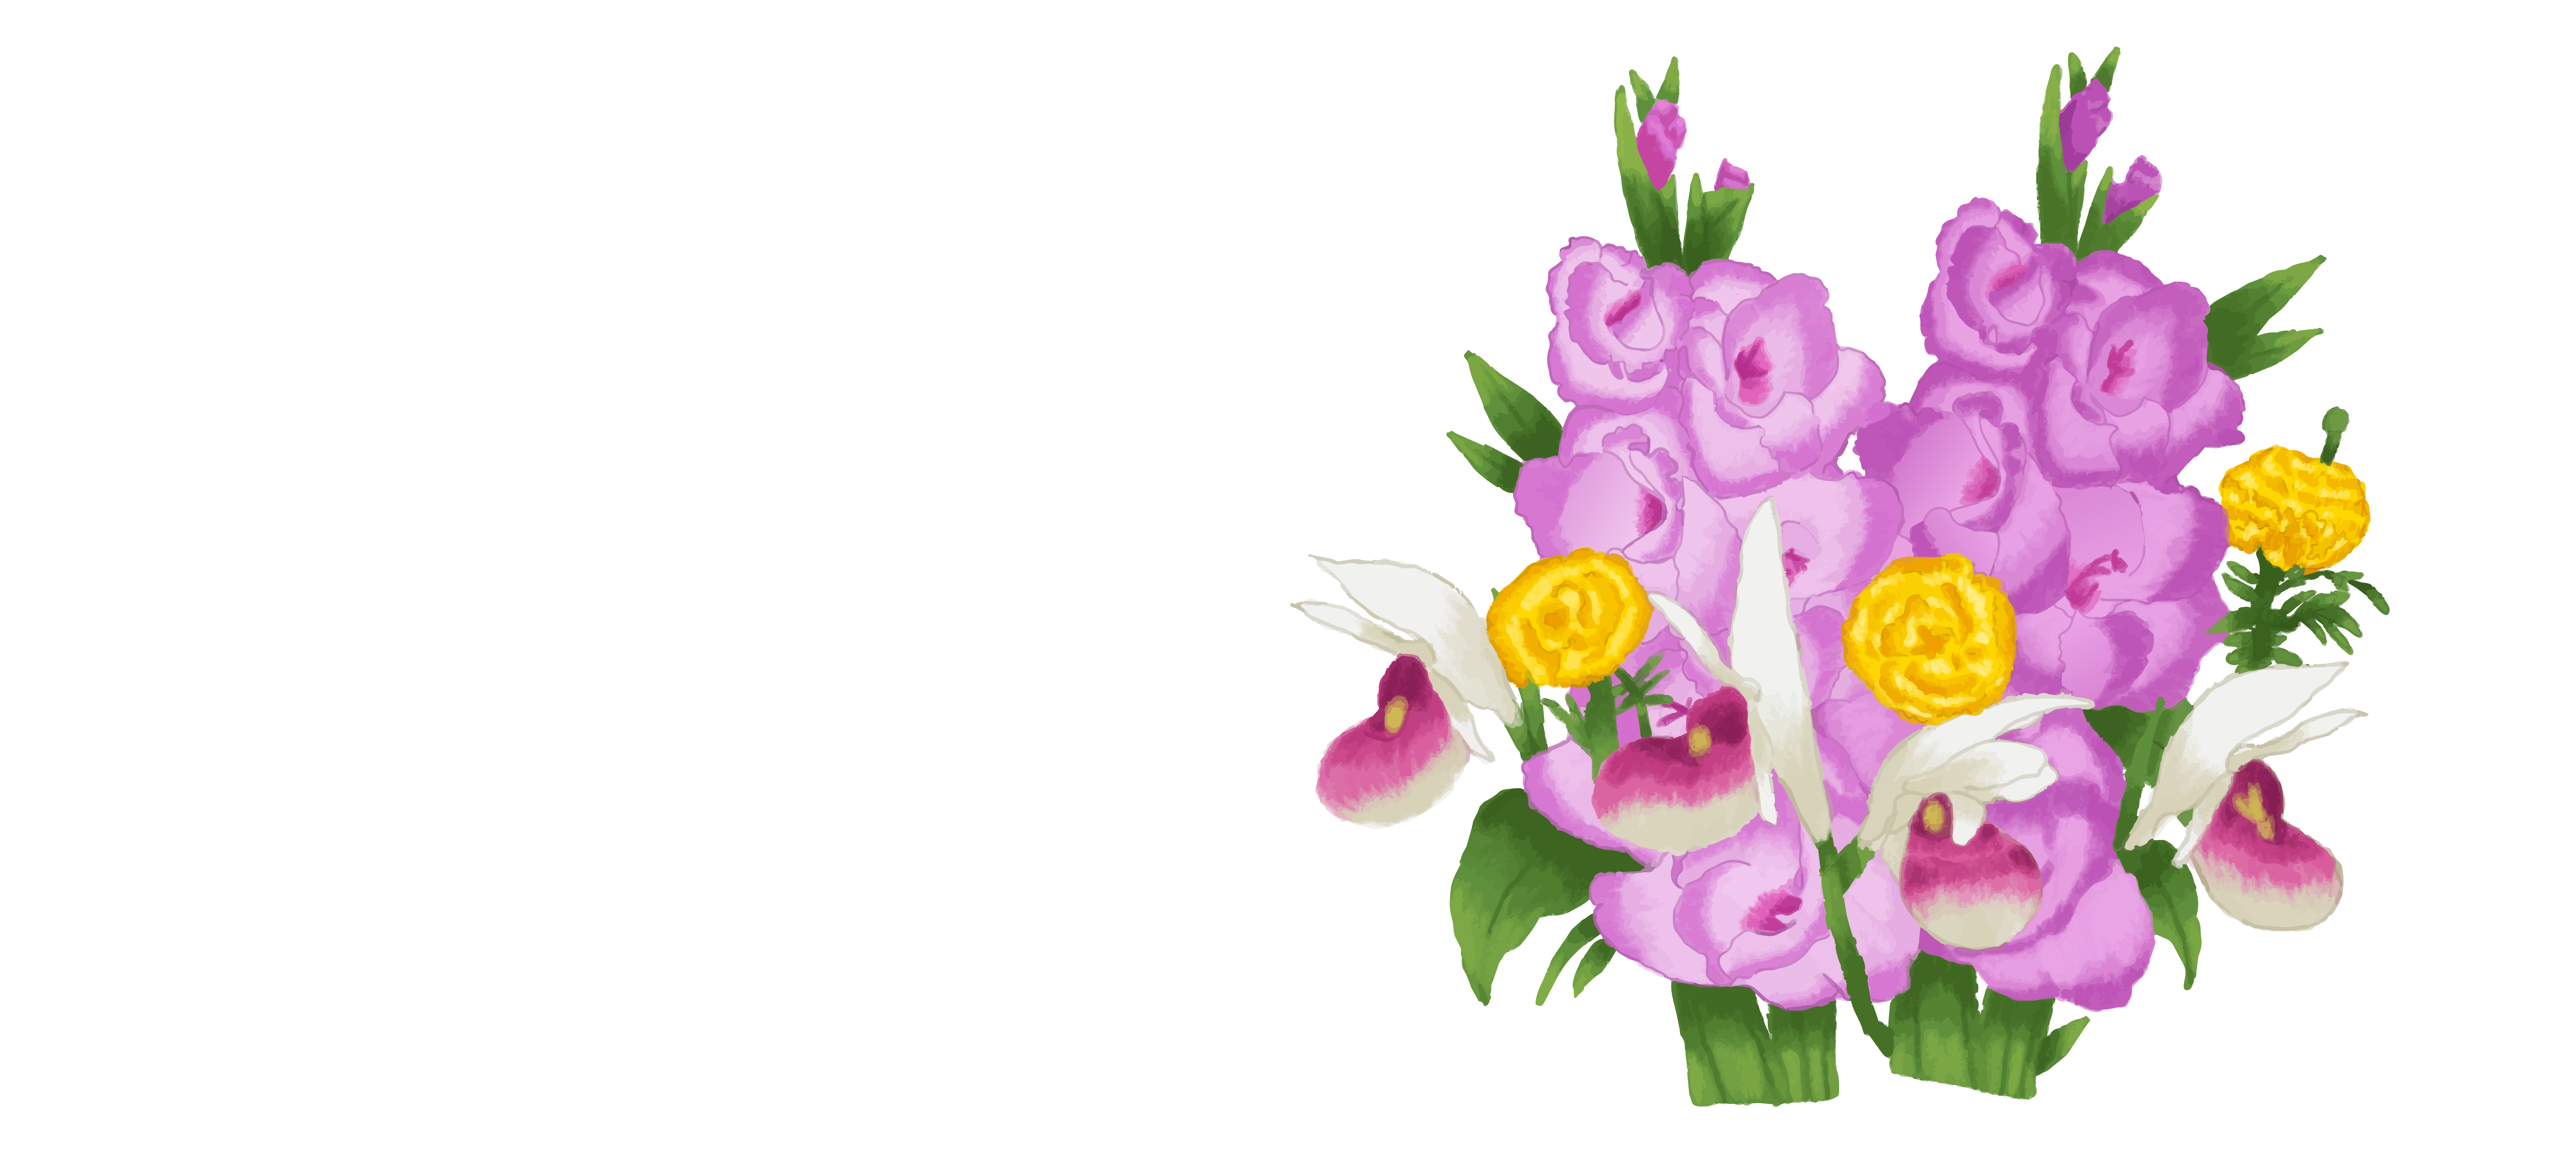
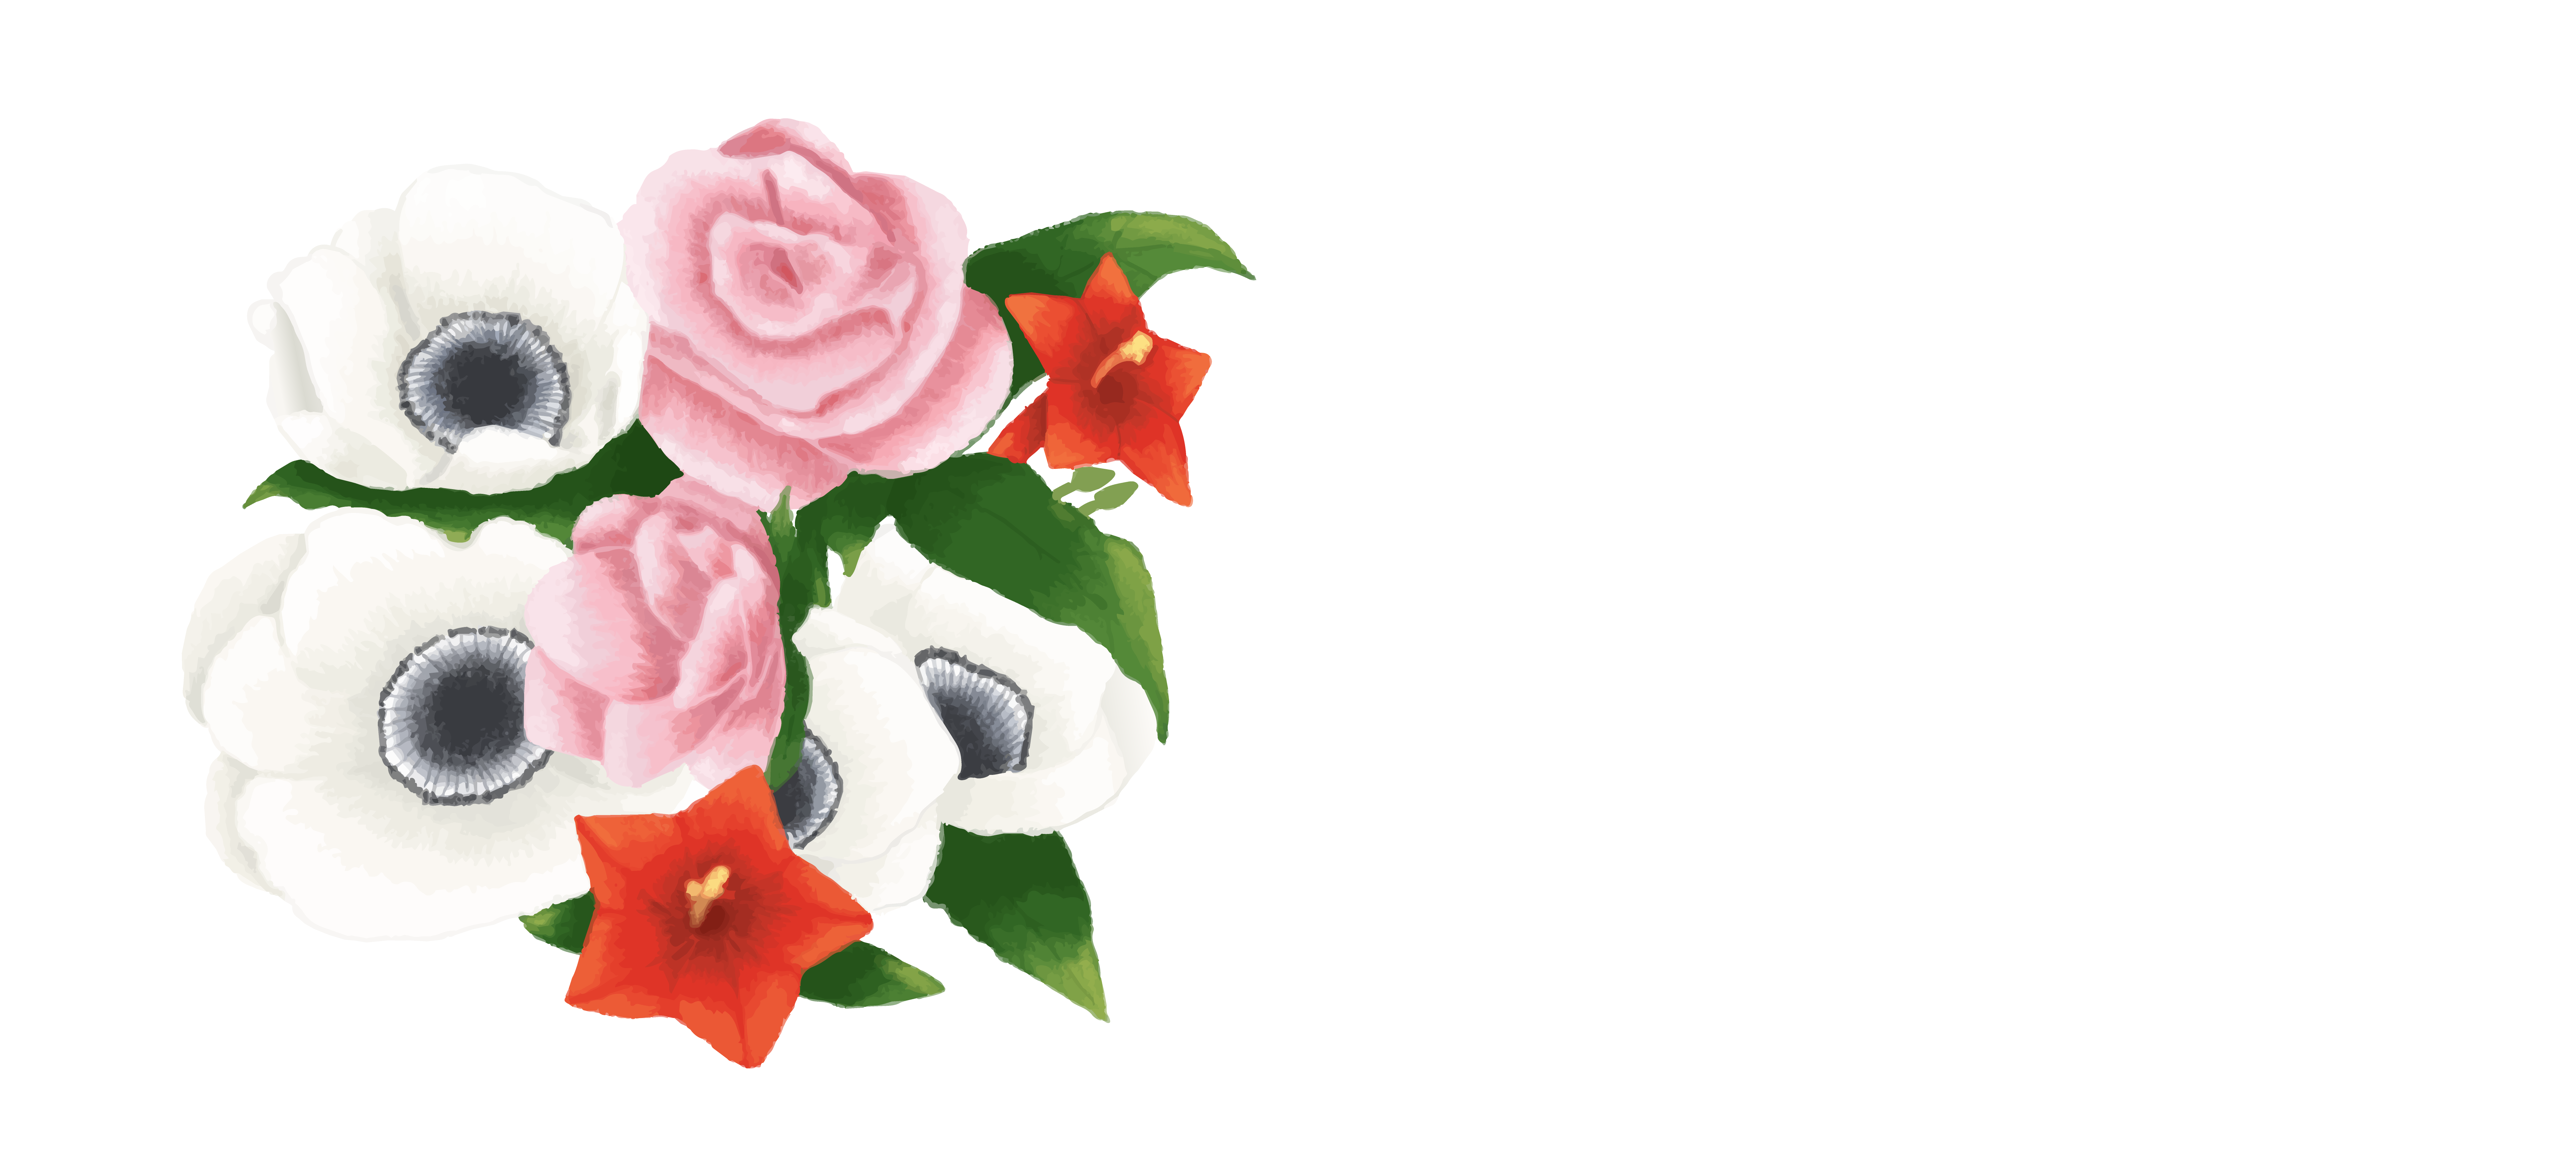
fix-img-pome

diff --git a/app/pages/poem-parent.vue b/app/pages/poem-parent.vue
@@ -26,17 +26,43 @@ function closePoem() {
 <template>
   <!-- CONTENT -->
   <section class="w-full pt-[5vw] pb-0">
-    <div class="text-center mb-[10vw]">
-      <h2 class="text-[8vw] md:text-[96px] text-[#F6EBDD] font-serif">
-        Poetry – Parent
-      </h2>
-      <p
-        class="text-[#F6EBDD] text-[3.5vw] font-light md:text-[24px] mt-[1vw] leading-relaxed"
-      >
-        ขอต้อนรับสู่พื้นที่แห่งความสัมพันธ์ ในหมวดหมู่ <span class="font-medium">ครอบครัว</span> <br />
-        ที่ได้ค้นหาไปจนถึงการ กลั่นกรองบทกวี และภาษาดอกไม้ <br />
-        ที่มีความหมายเกี่ยวข้อง
-      </p>
+
+    <!-- Title card with curtain decorations -->
+    <div class="relative mb-[10vw] mx-[5vw] bg-white rounded-[clamp(16px,2.5vw,36px)] overflow-hidden">
+      <!-- ม่านซ้าย (กลับด้าน) -->
+      <img
+        src="/poetry/bandner-parent.png"
+        class="absolute left-0 top-0 h-full w-auto pointer-events-none select-none scale-x-[-1]"
+      />
+      <!-- ม่านขวา -->
+      <img
+        src="/poetry/bandner-parent.png"
+        class="absolute right-0 top-0 h-full w-auto pointer-events-none select-none"
+      />
+      <!-- ข้อความ -->
+      <div class="relative z-10 text-center py-[clamp(24px,4vw,56px)] px-[clamp(80px,16vw,260px)]">
+        <h2 class="text-[8vw] md:text-[96px] text-[#2c1a0e] font-serif">
+          Poetry - Family
+        </h2>
+        <p
+          class="text-[#2c1a0e] text-[3.5vw] font-light md:text-[24px] mt-[1vw] leading-relaxed"
+        >
+          ขอต้อนรับสู่พื้นที่แห่งความสัมพันธ์ ในหมวดหมู่ <span class="font-medium">ครอบครัว</span> <br />
+          ที่ได้ค้นหาไปจนถึงการ กลั่นกรองบทกวี และภาษาดอกไม้ <br />
+          ที่มีความหมายเกี่ยวข้อง
+        </p>
+      </div>
+    </div>
+
+    <!-- ลายเพชรคั่น -->
+    <div class="w-full overflow-hidden flex items-center justify-center my-[2vw]" style="gap: clamp(6px, 1vw, 16px)">
+      <img
+        v-for="i in 50"
+        :key="i"
+        src="/poetry/thai.png"
+        class="flex-none pointer-events-none select-none"
+        style="height: clamp(18px, 2.8vw, 42px); width: auto;"
+      />
     </div>
 
     <div class="max-w-275 mx-auto">
@@ -44,7 +70,7 @@ function closePoem() {
       <!-- บทที่ 1 — รูปซ้าย ข้อความขวา -->
       <div class="relative mb-[6vw]">
         <img src="/poetry/family 1.png" loading="lazy" alt="ภาพประกอบบทกวีเพลงยาวถวายโอวาท ของสุนทรภู่ สื่อถึงความกตัญญูต่อบิดามารดา และคุณค่าของครอบครัวในวรรณคดีไทย" class="w-full h-auto pointer-events-none" />
-        <div class="absolute inset-0 flex items-center pl-[42%] pr-[10%] -translate-y-[5%]">
+        <div class="absolute inset-0 flex items-center pl-[42%] pr-[6%] -translate-y-[5%]">
           <div class="flex flex-col items-end text-right gap-[0.6em] w-full">
             <h3 class="font-serif font-medium text-[#2c1a0e]" style="font-size: clamp(14px, 2.8vw, 40px)">เพลงยาวถวายโอวาท</h3>
             <p class="text-[#2c1a0e] font-light" style="font-size: clamp(10px, 1.5vw, 24px)">ผู้แต่ง: สุนทรภู่</p>
@@ -81,6 +107,38 @@ function closePoem() {
             <h3 class="font-serif font-medium text-[#2c1a0e]" style="font-size: clamp(14px, 2.8vw, 40px)">ขุนช้างขุนแผน</h3>
             <p class="text-[#2c1a0e] font-light" style="font-size: clamp(10px, 1.5vw, 24px)">ผู้แต่ง: สุนทรภู่</p>
             <button @click="poetryList[2] && openPoem(poetryList[2])"
+              class="bg-[#E76A87] text-white font-readmore cursor-pointer border border-black rounded-full shadow-md hover:scale-105 transition-transform"
+              style="font-size: clamp(10px, 1.1vw, 16px); padding: clamp(4px,0.5vw,8px) clamp(12px,1.8vw,26px)">
+              Read more
+            </button>
+          </div>
+        </div>
+      </div>
+
+      <!-- บทที่ 4 — รูปขวา ข้อความซ้าย -->
+      <div class="relative mb-[6vw]">
+        <img src="/poetry/fam 4.png" loading="lazy" alt="ภาพประกอบบทกวีสุภาษิตสอนหญิง ของสุนทรภู่ สื่อถึงคำสอนและมารยาทของสตรีในครอบครัวไทย" class="w-full h-auto pointer-events-none" />
+        <div class="absolute inset-0 flex items-center pr-[42%] pl-[10%]">
+          <div class="flex flex-col items-start text-left gap-[0.6em] w-full">
+            <h3 class="font-serif font-medium text-[#2c1a0e]" style="font-size: clamp(14px, 2.8vw, 40px)">สุภาษิตสอนหญิง</h3>
+            <p class="text-[#2c1a0e] font-light" style="font-size: clamp(10px, 1.5vw, 24px)">ผู้แต่ง: สุนทรภู่</p>
+            <button @click="poetryList[1] && openPoem(poetryList[1])"
+              class="bg-[#E76A87] text-white font-readmore cursor-pointer border border-black rounded-full shadow-md hover:scale-105 transition-transform"
+              style="font-size: clamp(10px, 1.1vw, 16px); padding: clamp(4px,0.5vw,8px) clamp(12px,1.8vw,26px)">
+              Read more
+            </button>
+          </div>
+        </div>
+      </div>
+
+       <!-- บทที่ 5 — รูปซ้าย ข้อความขวา -->
+      <div class="relative mb-[6vw]">
+        <img src="/poetry/fam 5.png" loading="lazy" alt="ภาพประกอบบทกวีพระอภัยมณี ตอนฤาษีช่วยสุดสาคร ของสุนทรภู่ สื่อถึงความรักและความผูกพันระหว่างบิดาและบุตร" class="w-full h-auto pointer-events-none" />
+        <div class="absolute inset-0 flex items-center pl-[42%] pr-[20%] -translate-y-[5%]">
+          <div class="flex flex-col items-end text-right gap-[0.6em] w-full">
+            <h3 class="font-serif font-medium text-[#2c1a0e]" style="font-size: clamp(14px, 2.8vw, 40px)">พระอภัยมณี <br>ตอนฤาษีช่วยสุดสาคร</h3>
+            <p class="text-[#2c1a0e] font-light" style="font-size: clamp(10px, 1.5vw, 24px)">ผู้แต่ง: สุนทรภู่</p>
+            <button @click="poetryList[0] && openPoem(poetryList[0])"
               class="bg-[#E76A87] text-white font-readmore cursor-pointer border border-black rounded-full shadow-md hover:scale-105 transition-transform"
               style="font-size: clamp(10px, 1.1vw, 16px); padding: clamp(4px,0.5vw,8px) clamp(12px,1.8vw,26px)">
               Read more

diff --git a/app/pages/poem-love.vue b/app/pages/poem-love.vue
@@ -42,7 +42,7 @@ function closePoem() {
 
         <!-- บทที่ 1 — รูปซ้าย ข้อความขวา -->
         <div class="relative mb-[6vw]">
-          <img src="/love/romance 1.png" loading="lazy" alt="ภาพประกอบบทกวีพระอภัยมณี ตอนพระอภัยมณีเกี้ยวนางละเวง ของสุนทรภู่ สื่อถึงความรักอมตะที่ยั่งยืนแม้โลกจะสลาย" class="w-full h-auto pointer-events-none" />
+          <img src="/love/love 1.png" loading="lazy" alt="ภาพประกอบบทกวีพระอภัยมณี ตอนพระอภัยมณีเกี้ยวนางละเวง ของสุนทรภู่ สื่อถึงความรักอมตะที่ยั่งยืนแม้โลกจะสลาย" class="w-full h-auto pointer-events-none" />
           <div class="absolute inset-0 flex items-center pl-[42%] pr-[10%]">
             <div class="flex flex-col items-end text-right gap-[0.6em] w-full">
               <h3 class="font-serif font-medium text-[#2c1a0e]" style="font-size: clamp(14px, 2.8vw, 40px)">พระอภัยมณี</h3>
@@ -56,6 +56,70 @@ function closePoem() {
             </div>
           </div>
         </div>
+
+         <!-- บทที่ 2 — รูปขวา ข้อความซ้าย -->
+        <div class="relative mb-[6vw]">
+          <img src="/love/love 2.png" loading="lazy" alt="ภาพประกอบบทกวีสวัสดิรักษา ของสุนทรภู่ สื่อถึงความเจ็บปวดและความโศกเศร้าจากบทกวีวรรณคดีไทย" class="w-full h-auto pointer-events-none" />
+          <div class="absolute inset-0 flex items-center pr-[42%] pl-[13%]">
+            <div class="flex flex-col items-start text-left gap-[0.6em] w-full">
+              <h3 class="font-serif font-medium text-[#2c1a0e]" style="font-size: clamp(14px, 2.8vw, 40px)">พระอภัยมณี</h3>
+              <p class="text-[#2c1a0e] font-light" style="font-size: clamp(10px, 1.5vw, 24px)">ผู้แต่ง: สุนทรภู่</p>
+              <button @click="poetryList[5] && openPoem(poetryList[5])"
+                class="bg-[#E76A87] text-white font-readmore cursor-pointer border border-black rounded-full shadow-md hover:scale-105 transition-transform"
+                style="font-size: clamp(10px, 1.1vw, 16px); padding: clamp(4px,0.5vw,8px) clamp(12px,1.8vw,26px)">
+                Read more
+              </button>
+            </div>
+          </div>
+        </div>
+
+        <!-- บทที่ 3 — รูปซ้าย ข้อความขวา -->
+      <div class="relative mb-[6vw]">
+        <img src="/love/love 3.png" loading="lazy" alt="ภาพประกอบบทกวีขุนช้างขุนแผน ตอนที่สื่อถึงความรักและความผูกพันในครอบครัว จากวรรณคดีไทยของสุนทรภู่" class="w-full h-auto pointer-events-none" />
+        <div class="absolute inset-0 flex items-center pl-[42%] pr-[14%]">
+          <div class="flex flex-col items-end text-right gap-[0.6em] w-full">
+            <h3 class="font-serif font-medium text-[#2c1a0e]" style="font-size: clamp(14px, 2.8vw, 40px)">นิราศอิเหนา</h3>
+            <p class="text-[#2c1a0e] font-light" style="font-size: clamp(10px, 1.5vw, 24px)">ผู้แต่ง: สุนทรภู่</p>
+            <button @click="poetryList[2] && openPoem(poetryList[2])"
+              class="bg-[#E76A87] text-white font-readmore cursor-pointer border border-black rounded-full shadow-md hover:scale-105 transition-transform"
+              style="font-size: clamp(10px, 1.1vw, 16px); padding: clamp(4px,0.5vw,8px) clamp(12px,1.8vw,26px)">
+              Read more
+            </button>
+          </div>
+        </div>
+      </div>
+
+      <!-- บทที่ 4 — รูปขวา ข้อความซ้าย -->
+      <div class="relative mb-[6vw]">
+        <img src="/love/love 4.png" loading="lazy" alt="ภาพประกอบบทกวีสุภาษิตสอนหญิง ของสุนทรภู่ สื่อถึงคำสอนและมารยาทของสตรีในครอบครัวไทย" class="w-full h-auto pointer-events-none" />
+        <div class="absolute inset-0 flex items-center pr-[50%] pl-[18%]">
+          <div class="flex flex-col items-start text-left gap-[0.6em] w-full">
+            <h3 class="font-serif font-medium text-[#2c1a0e]" style="font-size: clamp(14px, 2.8vw, 40px)">พระอภัยมณี</h3>
+            <p class="text-[#2c1a0e] font-light" style="font-size: clamp(10px, 1.5vw, 24px)">ผู้แต่ง: สุนทรภู่</p>
+            <button @click="poetryList[1] && openPoem(poetryList[1])"
+              class="bg-[#E76A87] text-white font-readmore cursor-pointer border border-black rounded-full shadow-md hover:scale-105 transition-transform"
+              style="font-size: clamp(10px, 1.1vw, 16px); padding: clamp(4px,0.5vw,8px) clamp(12px,1.8vw,26px)">
+              Read more
+            </button>
+          </div>
+        </div>
+      </div>
+
+       <!-- บทที่ 5 — รูปซ้าย ข้อความขวา -->
+      <div class="relative mb-[6vw]">
+        <img src="/love/love 5.png" loading="lazy" alt="ภาพประกอบบทกวีพระอภัยมณี ตอนฤาษีช่วยสุดสาคร ของสุนทรภู่ สื่อถึงความรักและความผูกพันระหว่างบิดาและบุตร" class="w-full h-auto pointer-events-none" />
+        <div class="absolute inset-0 flex items-center pl-[42%] pr-[20%] -translate-y-[5%]">
+          <div class="flex flex-col items-end text-right gap-[0.6em] w-full">
+            <h3 class="font-serif font-medium text-[#2c1a0e]" style="font-size: clamp(14px, 2.8vw, 40px)">นิราศอิเหนา</h3>
+            <p class="text-[#2c1a0e] font-light" style="font-size: clamp(10px, 1.5vw, 24px)">ผู้แต่ง: สุนทรภู่</p>
+            <button @click="poetryList[0] && openPoem(poetryList[0])"
+              class="bg-[#E76A87] text-white font-readmore cursor-pointer border border-black rounded-full shadow-md hover:scale-105 transition-transform"
+              style="font-size: clamp(10px, 1.1vw, 16px); padding: clamp(4px,0.5vw,8px) clamp(12px,1.8vw,26px)">
+              Read more
+            </button>
+          </div>
+        </div>
+      </div>
 
       </div>
     </section>

diff --git a/app/pages/poem-warning.vue b/app/pages/poem-warning.vue
@@ -58,6 +58,70 @@ function closePoem() {
           </div>
         </div>
 
+        <!-- บทที่ 2 — รูปขวา ข้อความซ้าย -->
+      <div class="relative mb-[6vw]">
+        <img src="/warning/warn 2.png" loading="lazy" alt="ภาพประกอบบทกวีสวัสดิรักษา ของสุนทรภู่ สื่อถึงการอบรมสั่งสอนของผู้ใหญ่ และมารยาทอันดีงามในครอบครัว" class="w-full h-auto pointer-events-none" />
+        <div class="absolute inset-0 flex items-center pr-[42%] pl-[10%]">
+          <div class="flex flex-col items-start text-left gap-[0.6em] w-full">
+            <h3 class="font-serif font-medium text-[#2c1a0e]" style="font-size: clamp(14px, 2.8vw, 40px)">เพลงยาวถวายโอวาทา</h3>
+            <p class="text-[#2c1a0e] font-light" style="font-size: clamp(10px, 1.5vw, 24px)">ผู้แต่ง: สุนทรภู่</p>
+            <button @click="poetryList[1] && openPoem(poetryList[1])"
+              class="bg-[#E76A87] text-white font-readmore cursor-pointer border border-black rounded-full shadow-md hover:scale-105 transition-transform"
+              style="font-size: clamp(10px, 1.1vw, 16px); padding: clamp(4px,0.5vw,8px) clamp(12px,1.8vw,26px)">
+              Read more
+            </button>
+          </div>
+        </div>
+      </div>
+
+      <!-- บทที่ 3 — รูปซ้าย ข้อความขวา -->
+      <div class="relative mb-[6vw]">
+        <img src="/warning/warn 3.png" loading="lazy" alt="ภาพประกอบบทกวีขุนช้างขุนแผน ตอนที่สื่อถึงความรักและความผูกพันในครอบครัว จากวรรณคดีไทยของสุนทรภู่" class="w-full h-auto pointer-events-none" />
+        <div class="absolute inset-0 flex items-center pl-[42%] pr-[14%]">
+          <div class="flex flex-col items-end text-right gap-[0.6em] w-full">
+            <h3 class="font-serif font-medium text-[#2c1a0e]" style="font-size: clamp(14px, 2.8vw, 40px)">เพลงยาวถวายโอวาท</h3>
+            <p class="text-[#2c1a0e] font-light" style="font-size: clamp(10px, 1.5vw, 24px)">ผู้แต่ง: สุนทรภู่</p>
+            <button @click="poetryList[2] && openPoem(poetryList[2])"
+              class="bg-[#E76A87] text-white font-readmore cursor-pointer border border-black rounded-full shadow-md hover:scale-105 transition-transform"
+              style="font-size: clamp(10px, 1.1vw, 16px); padding: clamp(4px,0.5vw,8px) clamp(12px,1.8vw,26px)">
+              Read more
+            </button>
+          </div>
+        </div>
+      </div>
+
+      <!-- บทที่ 4 — รูปขวา ข้อความซ้าย -->
+      <div class="relative mb-[6vw]">
+        <img src="/warning/warn 4.png" loading="lazy" alt="ภาพประกอบบทกวีสุภาษิตสอนหญิง ของสุนทรภู่ สื่อถึงคำสอนและมารยาทของสตรีในครอบครัวไทย" class="w-full h-auto pointer-events-none" />
+        <div class="absolute inset-0 flex items-center pr-[42%] pl-[10%]">
+          <div class="flex flex-col items-start text-left gap-[0.6em] w-full">
+            <h3 class="font-serif font-medium text-[#2c1a0e]" style="font-size: clamp(14px, 2.8vw, 40px)">เพลงยาวถวายโอวาท</h3>
+            <p class="text-[#2c1a0e] font-light" style="font-size: clamp(10px, 1.5vw, 24px)">ผู้แต่ง: สุนทรภู่</p>
+            <button @click="poetryList[1] && openPoem(poetryList[1])"
+              class="bg-[#E76A87] text-white font-readmore cursor-pointer border border-black rounded-full shadow-md hover:scale-105 transition-transform"
+              style="font-size: clamp(10px, 1.1vw, 16px); padding: clamp(4px,0.5vw,8px) clamp(12px,1.8vw,26px)">
+              Read more
+            </button>
+          </div>
+        </div>
+      </div>
+
+       <!-- บทที่ 5 — รูปซ้าย ข้อความขวา -->
+      <div class="relative mb-[6vw]">
+        <img src="/warning/warn 5.png" loading="lazy" alt="ภาพประกอบบทกวีพระอภัยมณี ตอนฤาษีช่วยสุดสาคร ของสุนทรภู่ สื่อถึงความรักและความผูกพันระหว่างบิดาและบุตร" class="w-full h-auto pointer-events-none" />
+        <div class="absolute inset-0 flex items-center pl-[42%] pr-[20%] -translate-y-[5%]">
+          <div class="flex flex-col items-end text-right gap-[0.6em] w-full">
+            <h3 class="font-serif font-medium text-[#2c1a0e]" style="font-size: clamp(14px, 2.8vw, 40px)">เพลงยาวถวายโอวาท</h3>
+            <p class="text-[#2c1a0e] font-light" style="font-size: clamp(10px, 1.5vw, 24px)">ผู้แต่ง: สุนทรภู่</p>
+            <button @click="poetryList[0] && openPoem(poetryList[0])"
+              class="bg-[#E76A87] text-white font-readmore cursor-pointer border border-black rounded-full shadow-md hover:scale-105 transition-transform"
+              style="font-size: clamp(10px, 1.1vw, 16px); padding: clamp(4px,0.5vw,8px) clamp(12px,1.8vw,26px)">
+              Read more
+            </button>
+          </div>
+        </div>
+      </div>
+
       </div>
     </section>
 

diff --git a/app/pages/poem-sadness.vue b/app/pages/poem-sadness.vue
@@ -42,7 +42,7 @@ function closePoem() {
         <!-- บทที่ 1 — รูปซ้าย ข้อความขวา -->
         <div class="relative mb-[6vw]">
           <img src="/sadness/sad 1.png" loading="lazy" alt="ภาพประกอบบทกวีนิราศอิเหนา ของสุนทรภู่ สื่อถึงความโศกเศร้าและความรักที่ตัดไม่ขาด ความโหยหาคนรักที่พลัดพราก" class="w-full h-auto pointer-events-none" />
-          <div class="absolute inset-0 flex items-center pl-[42%] pr-[10%]">
+          <div class="absolute inset-0 flex items-center pl-[40%] pr-[15%]">
             <div class="flex flex-col items-end text-right gap-[0.6em] w-full">
               <h3 class="font-serif font-medium text-[#2c1a0e]" style="font-size: clamp(14px, 2.8vw, 40px)">นิราศอิเหนา</h3>
               <p class="text-[#2c1a0e] font-light" style="font-size: clamp(10px, 1.5vw, 24px)">ผู้แต่ง: สุนทรภู่</p>
@@ -57,7 +57,7 @@ function closePoem() {
 
         <!-- บทที่ 2 — รูปขวา ข้อความซ้าย -->
         <div class="relative mb-[6vw]">
-          <img src="/sadness/sad 2.png" loading="lazy" alt="ภาพประกอบบทกวีสวัสดิรักษา ของสุนทรภู่ สื่อถึงความเจ็บปวดและความโศกเศร้าจากบทกวีวรรณคดีไทย" class="w-full h-auto pointer-events-none" />
+          <img src="/sadness/sad 2.png" loading="lazy" alt="ภาพประกอบบทกวีสวัสดิรักษา ของสุนทรภู่ สื่อถึงความเจ็บปวดและความโศกเศร้าจากบทกวีวรรณคดีไทย" class="w-full h-auto pointer-events-none scale-x-[-1]" />
           <div class="absolute inset-0 flex items-center pr-[42%] pl-[13%]">
             <div class="flex flex-col items-start text-left gap-[0.6em] w-full">
               <h3 class="font-serif font-medium text-[#2c1a0e]" style="font-size: clamp(14px, 2.8vw, 40px)">สวัสดิรักษา</h3>
@@ -70,6 +70,54 @@ function closePoem() {
             </div>
           </div>
         </div>
+
+        <!-- บทที่ 3 — รูปซ้าย ข้อความขวา -->
+      <div class="relative mb-[6vw]">
+        <img src="/sadness/sad 3.png" loading="lazy" alt="ภาพประกอบบทกวีขุนช้างขุนแผน ตอนที่สื่อถึงความรักและความผูกพันในครอบครัว จากวรรณคดีไทยของสุนทรภู่" class="w-full h-auto pointer-events-none" />
+        <div class="absolute inset-0 flex items-center pl-[42%] pr-[14%]">
+          <div class="flex flex-col items-end text-right gap-[0.6em] w-full">
+            <h3 class="font-serif font-medium text-[#2c1a0e]" style="font-size: clamp(14px, 2.8vw, 40px)">เพลงยาวถวายโอวาท</h3>
+            <p class="text-[#2c1a0e] font-light" style="font-size: clamp(10px, 1.5vw, 24px)">ผู้แต่ง: สุนทรภู่</p>
+            <button @click="poetryList[2] && openPoem(poetryList[2])"
+              class="bg-[#E76A87] text-white font-readmore cursor-pointer border border-black rounded-full shadow-md hover:scale-105 transition-transform"
+              style="font-size: clamp(10px, 1.1vw, 16px); padding: clamp(4px,0.5vw,8px) clamp(12px,1.8vw,26px)">
+              Read more
+            </button>
+          </div>
+        </div>
+      </div>
+
+      <!-- บทที่ 4 — รูปขวา ข้อความซ้าย -->
+      <div class="relative mb-[6vw]">
+        <img src="/sadness/sad 4.png" loading="lazy" alt="ภาพประกอบบทกวีสุภาษิตสอนหญิง ของสุนทรภู่ สื่อถึงคำสอนและมารยาทของสตรีในครอบครัวไทย" class="w-full h-auto pointer-events-none" />
+        <div class="absolute inset-0 flex items-center pr-[50%] pl-[18%]">
+          <div class="flex flex-col items-start text-left gap-[0.6em] w-full">
+            <h3 class="font-serif font-medium text-[#2c1a0e]" style="font-size: clamp(14px, 2.8vw, 40px)">เพลงยาวถวายโอวาท</h3>
+            <p class="text-[#2c1a0e] font-light" style="font-size: clamp(10px, 1.5vw, 24px)">ผู้แต่ง: สุนทรภู่</p>
+            <button @click="poetryList[1] && openPoem(poetryList[1])"
+              class="bg-[#E76A87] text-white font-readmore cursor-pointer border border-black rounded-full shadow-md hover:scale-105 transition-transform"
+              style="font-size: clamp(10px, 1.1vw, 16px); padding: clamp(4px,0.5vw,8px) clamp(12px,1.8vw,26px)">
+              Read more
+            </button>
+          </div>
+        </div>
+      </div>
+
+       <!-- บทที่ 5 — รูปซ้าย ข้อความขวา -->
+      <div class="relative mb-[6vw]">
+        <img src="/sadness/sad 5.png" loading="lazy" alt="ภาพประกอบบทกวีพระอภัยมณี ตอนฤาษีช่วยสุดสาคร ของสุนทรภู่ สื่อถึงความรักและความผูกพันระหว่างบิดาและบุตร" class="w-full h-auto pointer-events-none" />
+        <div class="absolute inset-0 flex items-center pl-[42%] pr-[20%] -translate-y-[5%]">
+          <div class="flex flex-col items-end text-right gap-[0.6em] w-full">
+            <h3 class="font-serif font-medium text-[#2c1a0e]" style="font-size: clamp(14px, 2.8vw, 40px)">เพลงยาวถวายโอวาท</h3>
+            <p class="text-[#2c1a0e] font-light" style="font-size: clamp(10px, 1.5vw, 24px)">ผู้แต่ง: สุนทรภู่</p>
+            <button @click="poetryList[0] && openPoem(poetryList[0])"
+              class="bg-[#E76A87] text-white font-readmore cursor-pointer border border-black rounded-full shadow-md hover:scale-105 transition-transform"
+              style="font-size: clamp(10px, 1.1vw, 16px); padding: clamp(4px,0.5vw,8px) clamp(12px,1.8vw,26px)">
+              Read more
+            </button>
+          </div>
+        </div>
+      </div>
 
       </div>
     </section>

diff --git a/app/components/PoetryModal.vue b/app/components/PoetryModal.vue
@@ -18,11 +18,12 @@ const emit = defineEmits(["close"]);
         @click.self="emit('close')"
       >
         <div
-          class="modal-card relative w-full max-w-[626px] max-h-[805px] h-[95vh] bg-[#FDFBF7] shadow-2xl flex flex-col overflow-hidden"
+          class="modal-card relative w-full max-w-[626px] max-h-[805px] h-[95vh] shadow-2xl flex flex-col overflow-hidden"
+          style="background-image: url('/popup/Bg popup.png'); background-size: cover; background-position: center;"
         >
           <img
-            src="/poetry/leaves-bg.png"
-            class="absolute right-0 bottom-0 w-[70%] opacity-25 z-0 pointer-events-none"
+            src="/popup/Bg flower.png"
+            class="absolute right-0 bottom-0 w-[70%] opacity-60 z-0 pointer-events-none"
           />
 
           <button

diff --git a/app/components/poetry-hero.vue b/app/components/poetry-hero.vue
@@ -18,12 +18,14 @@ const heroMap: Record<
     label: "Parent",
   },
   "/poem-warning": {
-    flowerSrc: "/warning/yellow.png",
+    flowerSrc: "/warning/warning.png",
     label: "Warning",
+    flowerStyle: "top: 0; height: 100%; width: auto;",
   },
   "/poem-love": {
-    flowerSrc: "/warning/yellow.png",
+    flowerSrc: "/love/Love head.png",
     label: "Love",
+    flowerStyle: "top: 0; height: 100%; width: auto;",
   },
   "/poem-sadness": {
     flowerSrc: "/sadness/sadness-bg.png",